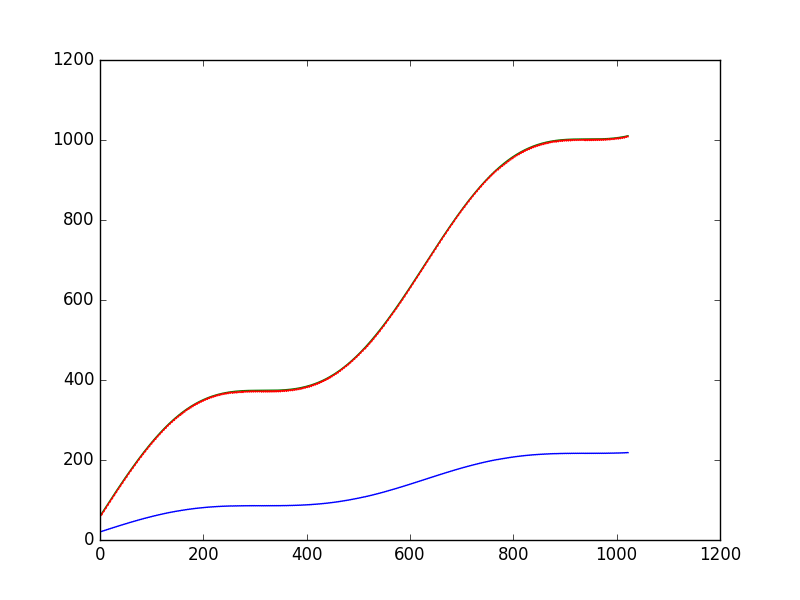
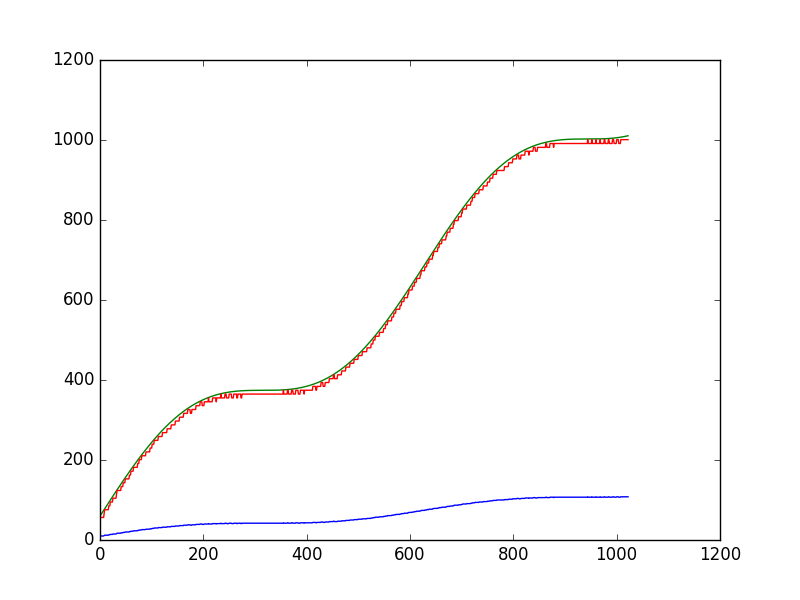
再量子化追加

diff --git a/python_ref/npu.py b/python_ref/npu.py
@@ -2,7 +2,7 @@ import numpy as np
 
 # 8bitの最大値
 QUANTIZE_BIT = 8
-MAX_VALUE = (2 ** QUANTIZE_BIT) - 1
+MAX_VALUE = (2 ** (QUANTIZE_BIT - 1) )- 1
 
 
 def deQuantize_scalar(x, min, max):
@@ -23,13 +23,14 @@ def Quantize(arr, min, max):
     range_scale = range / MAX_VALUE
     return ((arr - min) / range_scale).astype(np.int)
 
+
 def reQuantize(arr, min, max, new_min, new_max):
-    gain = (max - min) / (new_max - new_min)
-
+    gain = (new_max - new_min) / (max - min)
+    offset = min / gain
     # start vector
-    c_qt = arr * gain
+    c_qt = arr * gain - offset
 
-    return c_qt
+    return c_qt.astype(np.int)
 
 
 def q_inv(a_qt, a_min, a_max):

diff --git a/python_ref/q_mul.py b/python_ref/q_mul.py
@@ -41,5 +41,6 @@ q_c_min = np.min(q_C)
 q_c_max = np.max(q_C)
 c_min2 = npu.deQuantize_scalar(q_c_min, c_min, c_max)
 c_max2 = npu.deQuantize_scalar(q_c_max, c_min, c_max)
-deq_C2 = npu.reQuantize(q_C, c_min, c_max, c_min2, c_max2)
+req_C2 = npu.reQuantize(q_C, c_min, c_max, c_min2, c_max2)
+deq_C2 = npu.deQuantize(req_C2, c_min2, c_max2)
 save_img('mul2.png', C, q_C, deq_C2, n=3)
